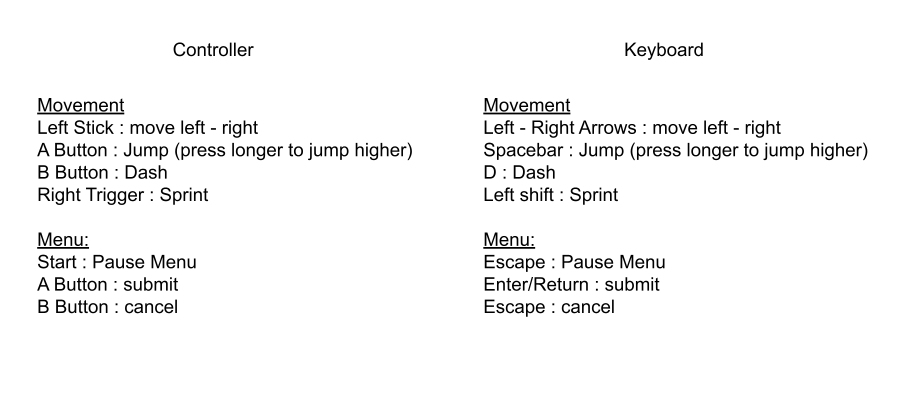
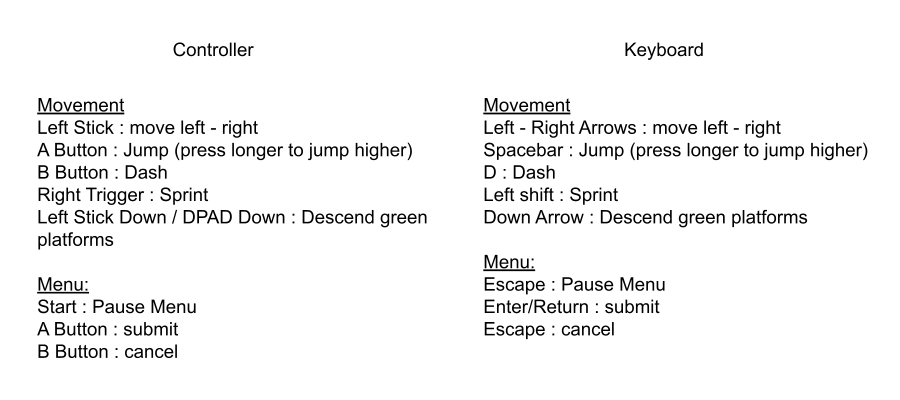
màj contrôles, màj rapport

Changed region(s): [[0.0311, 0.51, 0.4667, 0.9], [0.5289, 0.51, 0.9022, 0.84]]

diff --git a/Plateformer/Assets/Scripts/Feedbacks.cs b/Plateformer/Assets/Scripts/Feedbacks.cs
@@ -176,6 +176,8 @@ public class Feedbacks : MonoBehaviour
         float maxX_scale = speedStretchValues.x, maxY_scale = speedStretchValues.y;
         float newXScale = LinearScale(maxX_scale, refScale.x, maxXSpeed, Mathf.Abs(player.CurrentHorizontalSpeed));
         float newYScale = ExponentialScale(maxY_scale, refScale.y, maxYSpeed, Mathf.Abs(player.Speed.y));
+        Debug.Log("x scale : " + newXScale);
+        Debug.Log("y scale : " + newYScale);
         playerSprite.transform.localScale = new Vector3(newXScale,newYScale);
     }
 
